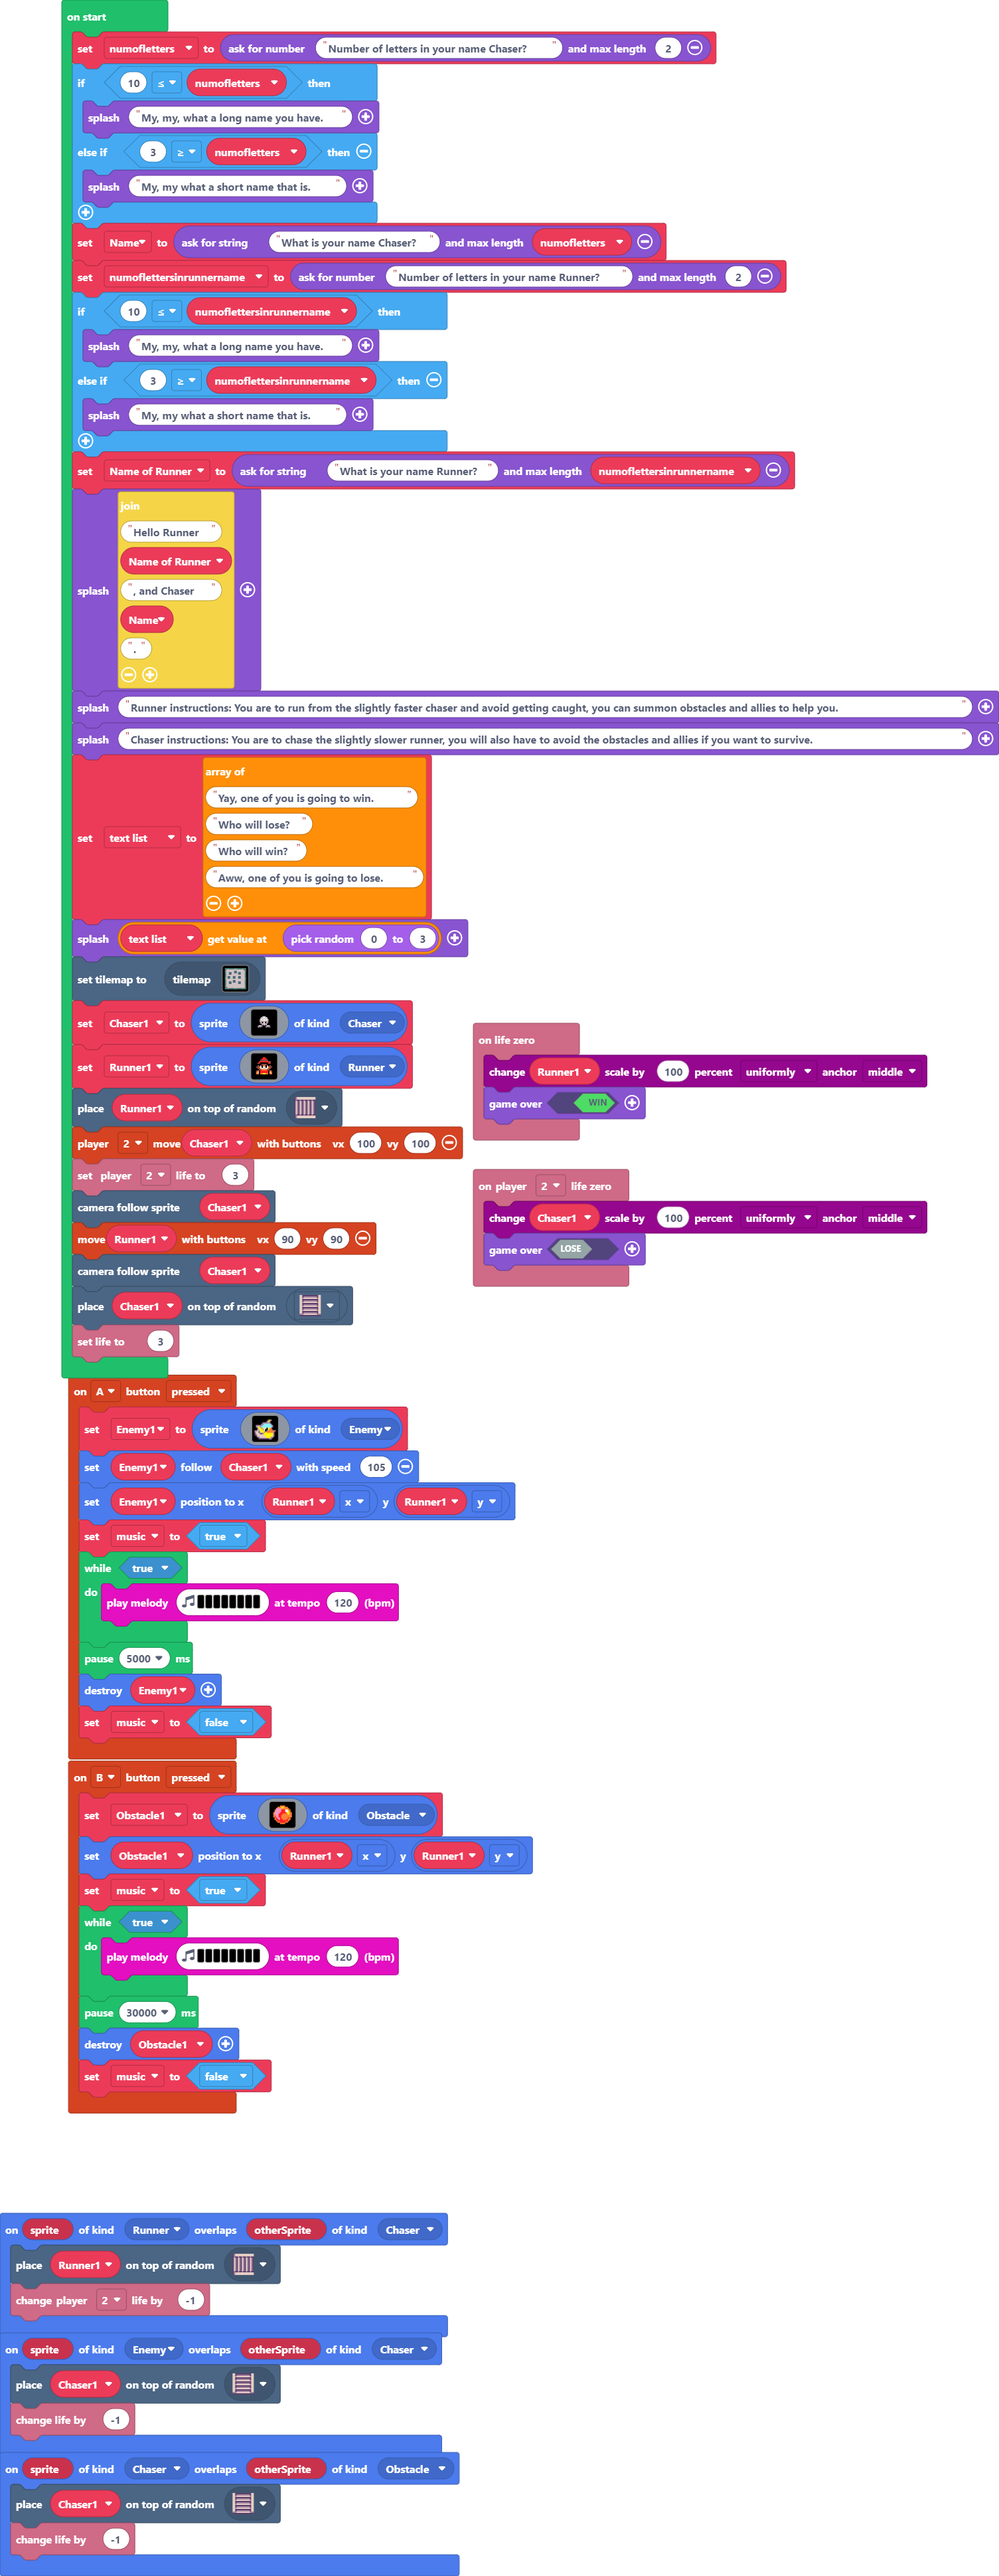
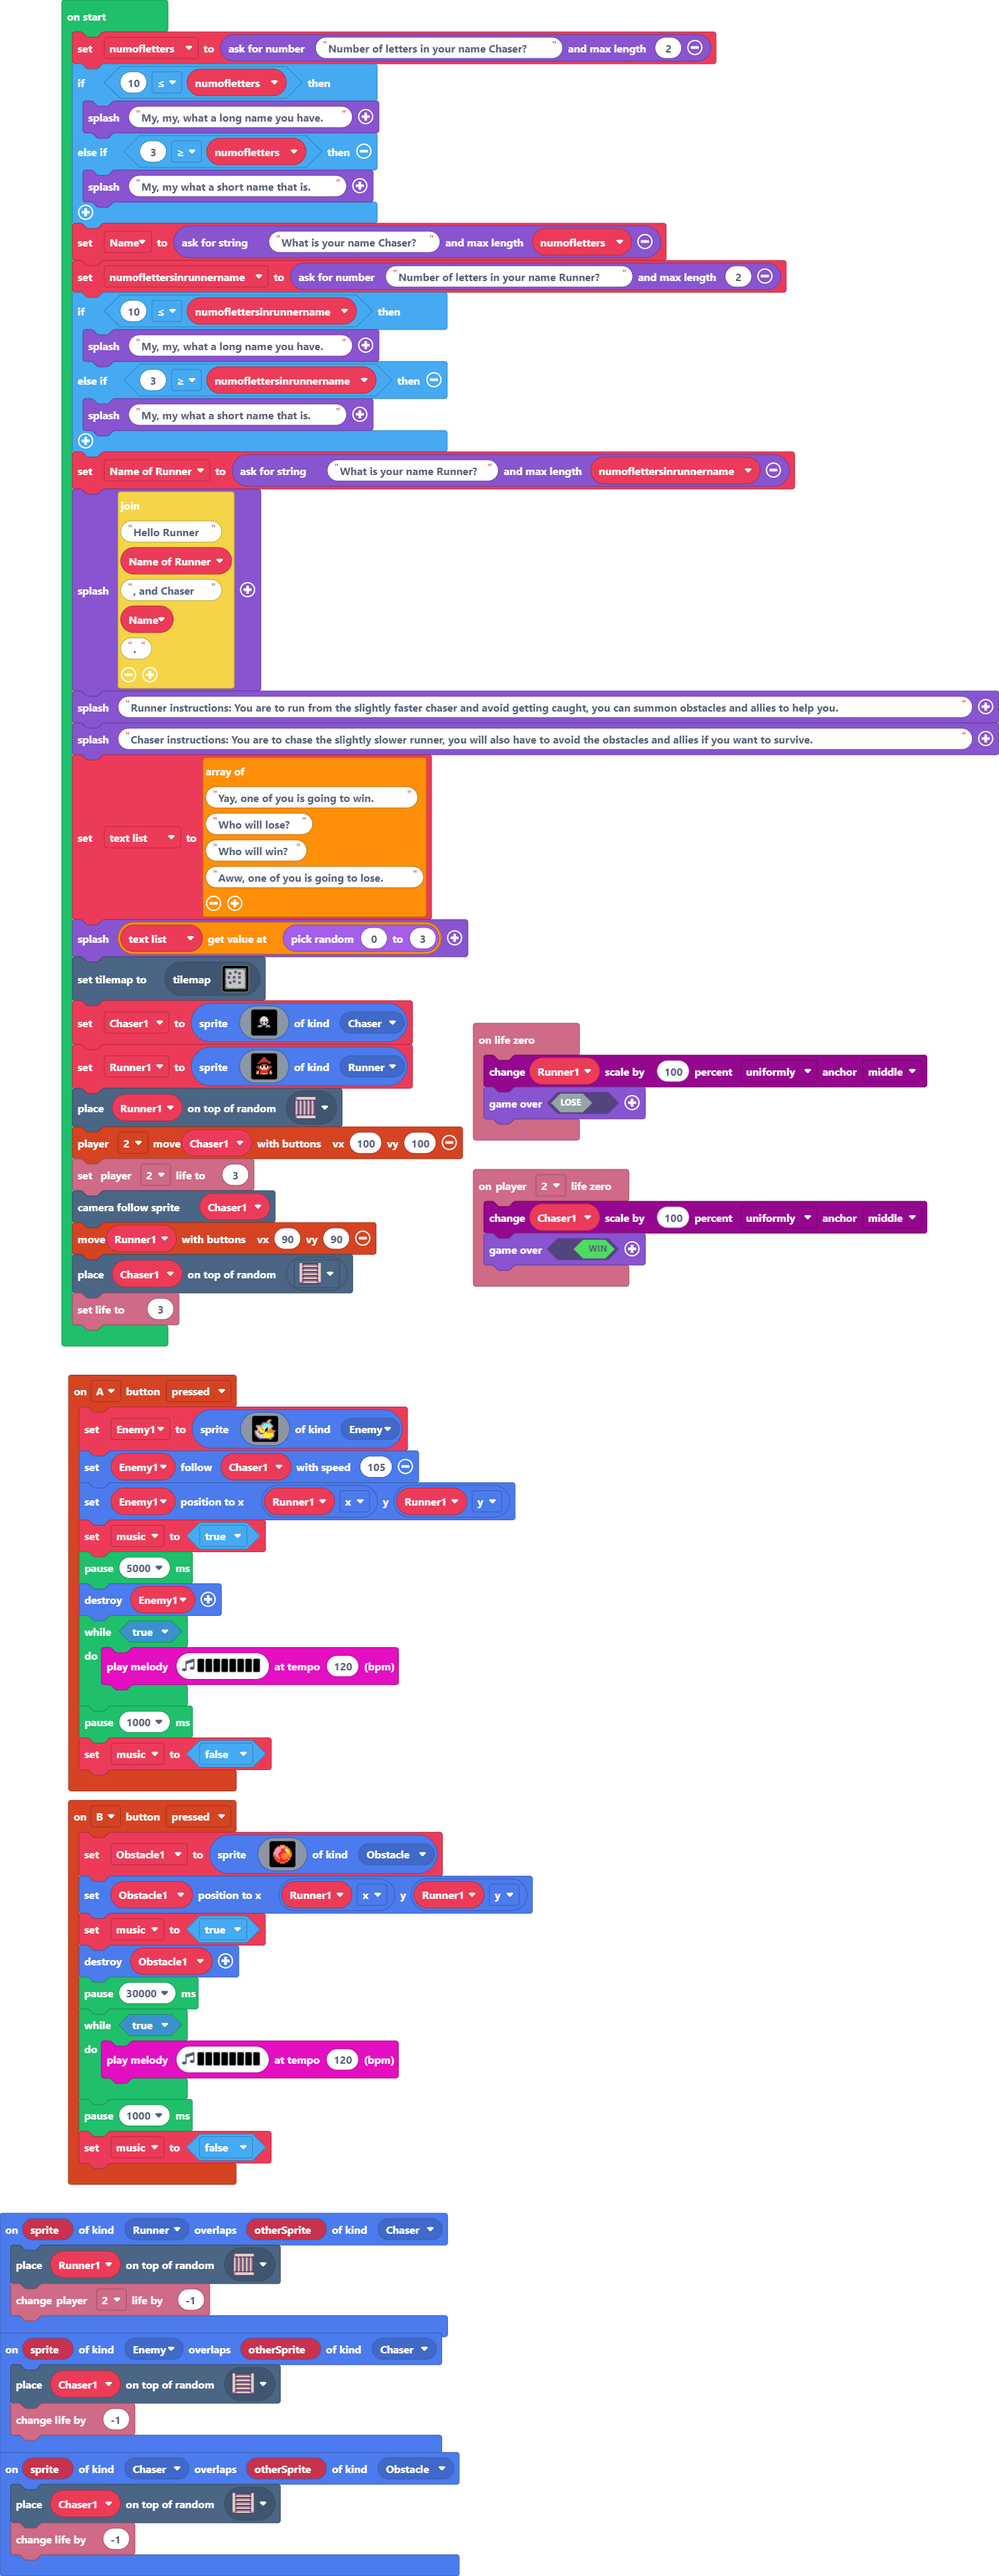
Update main.blocks, main.ts

diff --git a/main.ts b/main.ts
@@ -24,11 +24,12 @@ controller.B.onEvent(ControllerButtonEvent.Pressed, function () {
         `, SpriteKind.Obstacle)
     Obstacle1.setPosition(Runner1.x, Runner1.y)
     music2 = true
+    Obstacle1.destroy()
+    pause(30000)
     while (true) {
         music.playMelody("C5 B C5 B C5 B C5 B ", 120)
     }
-    pause(30000)
-    Obstacle1.destroy()
+    pause(1000)
     music2 = false
 })
 controller.A.onEvent(ControllerButtonEvent.Pressed, function () {
@@ -53,11 +54,12 @@ controller.A.onEvent(ControllerButtonEvent.Pressed, function () {
     Enemy1.follow(Chaser1, 105)
     Enemy1.setPosition(Runner1.x, Runner1.y)
     music2 = true
+    pause(5000)
+    Enemy1.destroy()
     while (true) {
         music.playMelody("C5 B C5 B C5 B C5 B ", 120)
     }
-    pause(5000)
-    Enemy1.destroy()
+    pause(1000)
     music2 = false
 })
 sprites.onOverlap(SpriteKind.Chaser, SpriteKind.Obstacle, function (sprite, otherSprite) {
@@ -66,7 +68,7 @@ sprites.onOverlap(SpriteKind.Chaser, SpriteKind.Obstacle, function (sprite, othe
 })
 info.onLifeZero(function () {
     scaling.scaleByPercent(Runner1, 100, ScaleDirection.Uniformly, ScaleAnchor.Middle)
-    game.over(true)
+    game.over(false)
 })
 sprites.onOverlap(SpriteKind.Enemy, SpriteKind.Chaser, function (sprite, otherSprite) {
     tiles.placeOnRandomTile(Chaser1, sprites.dungeon.stairNorth)
@@ -74,7 +76,7 @@ sprites.onOverlap(SpriteKind.Enemy, SpriteKind.Chaser, function (sprite, otherSp
 })
 info.player2.onLifeZero(function () {
     scaling.scaleByPercent(Chaser1, 100, ScaleDirection.Uniformly, ScaleAnchor.Middle)
-    game.over(false)
+    game.over(true)
 })
 sprites.onOverlap(SpriteKind.Runner, SpriteKind.Chaser, function (sprite, otherSprite) {
     tiles.placeOnRandomTile(Runner1, sprites.dungeon.stairEast)
@@ -159,6 +161,5 @@ controller.player2.moveSprite(Chaser1, 100, 100)
 info.player2.setLife(3)
 scene.cameraFollowSprite(Chaser1)
 controller.moveSprite(Runner1, 90, 90)
-scene.cameraFollowSprite(Chaser1)
 tiles.placeOnRandomTile(Chaser1, sprites.dungeon.stairNorth)
 info.setLife(3)
